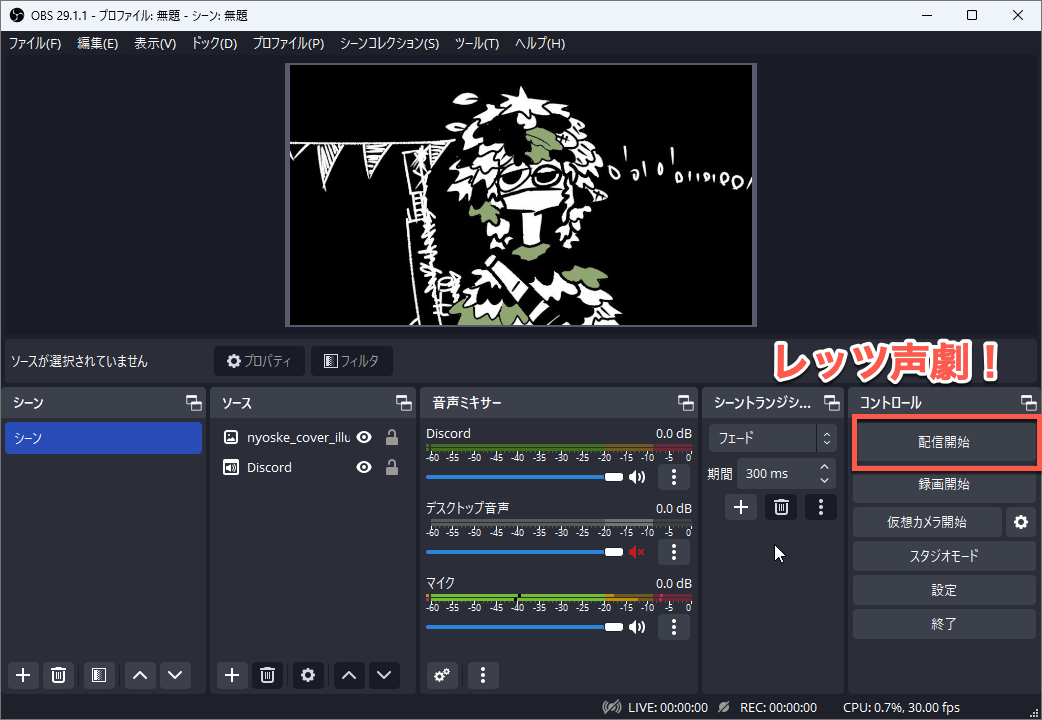
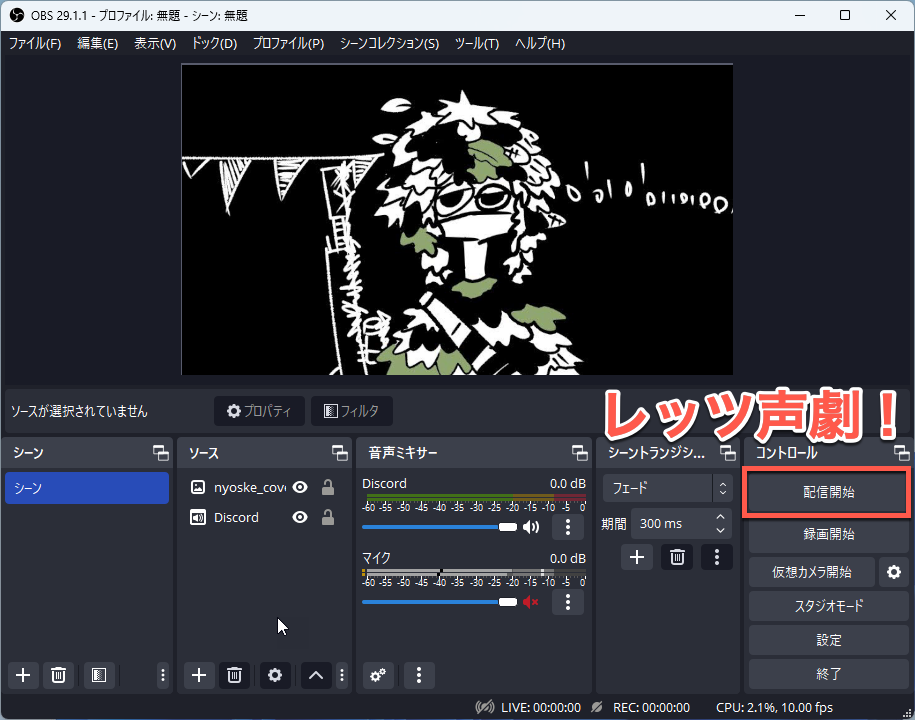
デスクトップ音声無効化

diff --git a/discord_twitcasting/index.html b/discord_twitcasting/index.html
@@ -443,12 +443,11 @@
 		  </section>
 		  <section class="SubSection">
 			  <h3 class="Heading">3-5. OBSの配信ソース上でデスクトップ音声をミュートする</h3>
-			  <p>OBSは、デフォルトでデスクトップ全体の音を取り込むようになっています。デスクトップ音声には、Discordの音も含まれていて、3-4で設定したDiscordからの音とかぶってしまうので、
-			  こちらをミュートしておきます。Discord以外で鳴る余計な音が配信に乗ってしまうのを防げます。</p>
-			  <div class="Image Image--micro">
+			  <p>OBSは、デフォルトでデスクトップ全体の音を取り込むようになっています。デスクトップ音声には、Discordの音も含まれていて、3-4で設定したDiscordからの音とかぶってしまうので、こちらを無効にしておきます。これで、Discord以外で鳴る余計な音が配信に乗ってしまうのを防げます(デスクトップ音声をの設定自体は残しておきたいのであれば、単にミュートしておくだけでもOKです)。</p>
+			  <div class="Image Image--mini">
 				  <img class="Image-body"
-				       src="OBS-Desktop-Config.png"
-				       alt="デスクトップの音声はミュートしておく"
+				       src="OBS-Disable-Desktop.png"
+				       alt="デスクトップの音声は無効にしておく"
 				       />
 			  </div>
 		  </section>
